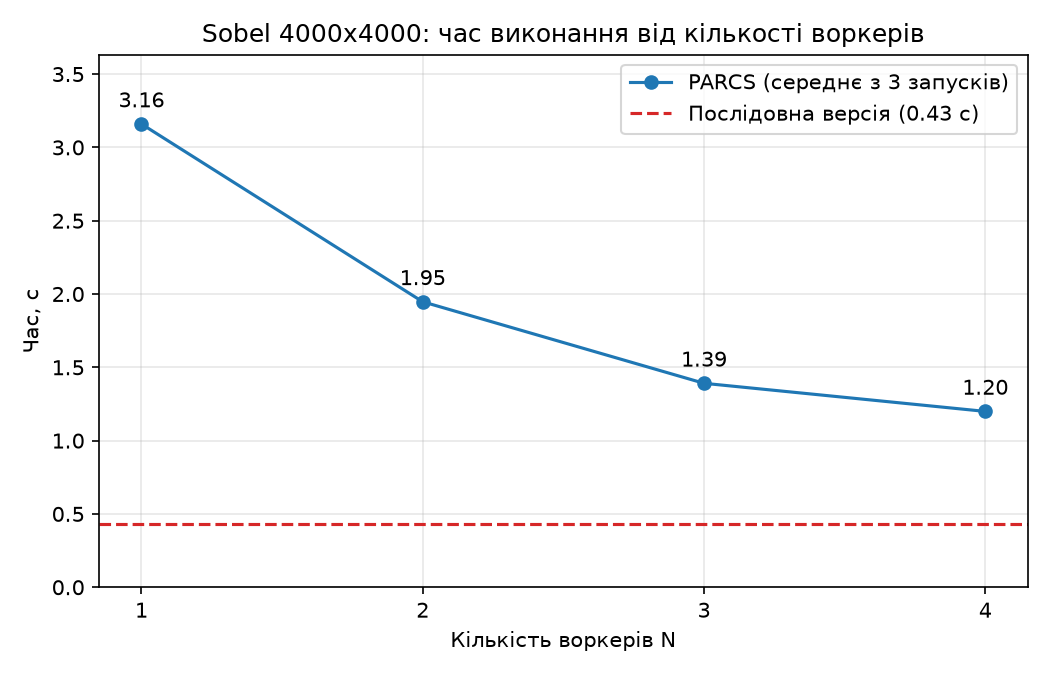
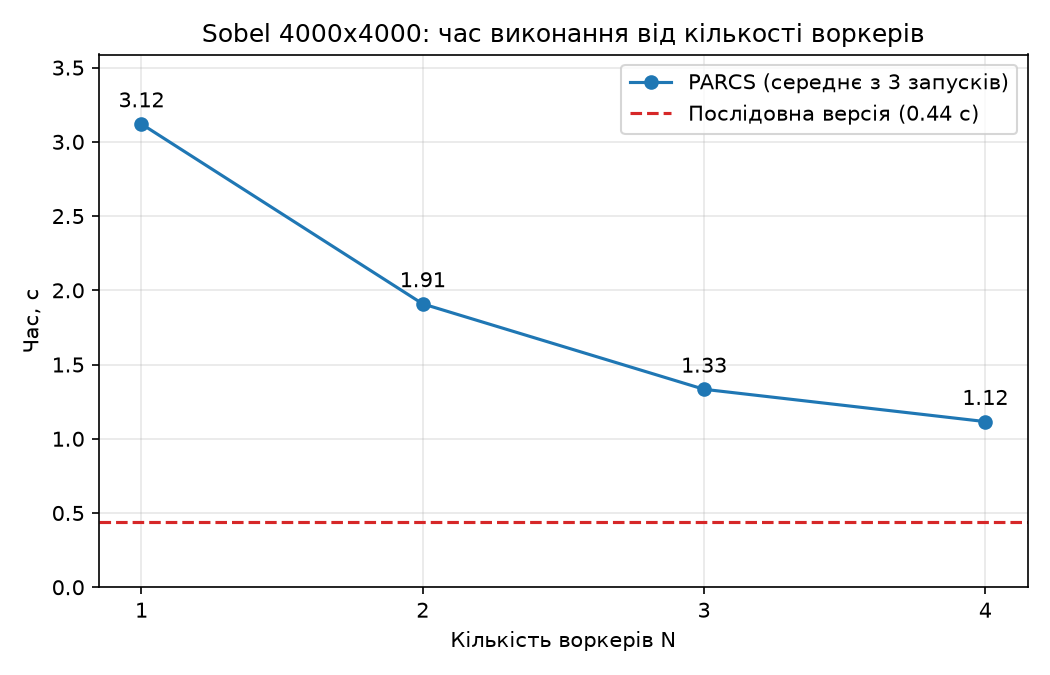
Оновлено заміри, графік, README (посилання на оригінал платформи)

diff --git a/README.md b/README.md
@@ -5,7 +5,7 @@
 Репозиторій: **https://github.com/succunstonnnnnn/parcs-sobel** (див. розділ 6)
 
 ```
-docker/      Dockerfile + копія платформи PARCS-Python (https://github.com/Hummer12007/parcs-python)
+docker/      копія платформи Hummer12007/parcs-python (https://github.com/Hummer12007/parcs-python) + змінений Dockerfile
 sobel/       solution.py (PARCS-модуль), sobel_seq.py (послідовна версія), make_image.py, compare.py
 scripts/     setup.sh, start.sh, stop.sh, cleanup.sh, startup.sh, config.sh, run_job.py, benchmark.py, plot.py
 images/      input.png (вхід), output.png (результат PARCS), output_seq.png (результат послідовної версії)
@@ -107,18 +107,18 @@ python3 -m venv .venv && .venv/bin/pip install numpy pillow matplotlib
 
 | Варіант | Запуск 1, с | Запуск 2, с | Запуск 3, с | **Середнє, с** | Прискорення відносно N=1 | Прискорення відносно послідовної |
 |---|---|---|---|---|---|---|
-| Послідовна (без PARCS) | 0,431 | 0,429 | 0,438 | **0,433** | — | 1,00 |
-| PARCS, N=1 | 3,193 | 3,132 | 3,154 | **3,160** | 1,00 | 0,14 |
-| PARCS, N=2 | 1,898 | 1,983 | 1,960 | **1,947** | 1,62 | 0,22 |
-| PARCS, N=3 | 1,350 | 1,403 | 1,420 | **1,391** | 2,27 | 0,31 |
-| PARCS, N=4 | 1,197 | 1,166 | 1,235 | **1,199** | 2,63 | 0,36 |
+| Послідовна (без PARCS) | 0,450 | 0,435 | 0,438 | **0,441** | — | 1,00 |
+| PARCS, N=1 | 3,194 | 3,126 | 3,041 | **3,120** | 1,00 | 0,14 |
+| PARCS, N=2 | 1,930 | 1,897 | 1,899 | **1,909** | 1,63 | 0,23 |
+| PARCS, N=3 | 1,425 | 1,271 | 1,304 | **1,333** | 2,34 | 0,33 |
+| PARCS, N=4 | 1,127 | 1,109 | 1,111 | **1,116** | 2,80 | 0,40 |
 
 Для N=1,2,3,4 результат PARCS збігається з послідовним піксель у піксель (`compare.py`: «ЗБІГАЄТЬСЯ (4000, 4000)»).
 
 **Висновки.**
 
-- Масштабування за кількістю воркерів є: від N=1 до N=4 час зменшився з 3,16 до 1,20 с (в 2,63 раза). Зростання менше за ідеальне ×4, бо частина часу не розпаралелюється.
-- **Але послідовна версія швидша за PARCS при будь-якому N** (0,43 с проти 1,20 с). Це чесний результат, його не потрібно приховувати. Саме обчислення Sobel у numpy дуже швидке (долі секунди), тож розпаралелювати майже нічого. Для PARCS доводиться пересилати ~16 МБ даних на воркерів і стільки ж назад, причому у вигляді тексту base64 (≈21 МБ у кожен бік) через Pyro4 на Python 2. N=1 це добре показує: обчислення те саме, а час у 7 разів більший. Імовірно, саме пересилання і кодування становить основну різницю (окремо я це не профілював).
+- Масштабування за кількістю воркерів є: від N=1 до N=4 час зменшився з 3,12 до 1,12 с (в 2,80 раза). Зростання менше за ідеальне ×4, бо частина часу не розпаралелюється.
+- **Але послідовна версія швидша за PARCS при будь-якому N** (0,44 с проти 1,12 с). Це чесний результат, його не потрібно приховувати. Саме обчислення Sobel у numpy дуже швидке (долі секунди), тож розпаралелювати майже нічого. Для PARCS доводиться пересилати ~16 МБ даних на воркерів і стільки ж назад, причому у вигляді тексту base64 (≈21 МБ у кожен бік) через Pyro4 на Python 2. N=1 це добре показує: обчислення те саме, а час у 7 разів більший. Імовірно, саме пересилання і кодування становить основну різницю (окремо я це не профілював).
 - PARCS виграв би, якби обчислення на один піксель було набагато важчим, ніж передача даних (наприклад, багатокрокова обробка або значно більші зображення).
 
 ## 5. Графік
@@ -139,4 +139,4 @@ python3 -m venv .venv && .venv/bin/pip install numpy pillow matplotlib
 
 https://github.com/succunstonnnnnn/parcs-sobel
 
-Папка `docker/` містить копію платформи https://github.com/Hummer12007/parcs-python із зміненим `Dockerfile` (див. розділ 2).
+Папка `docker/` — копія платформи [Hummer12007/parcs-python](https://github.com/Hummer12007/parcs-python) (оригінал: https://github.com/Hummer12007/parcs-python) із зміненим `Dockerfile` (див. розділ 2).
